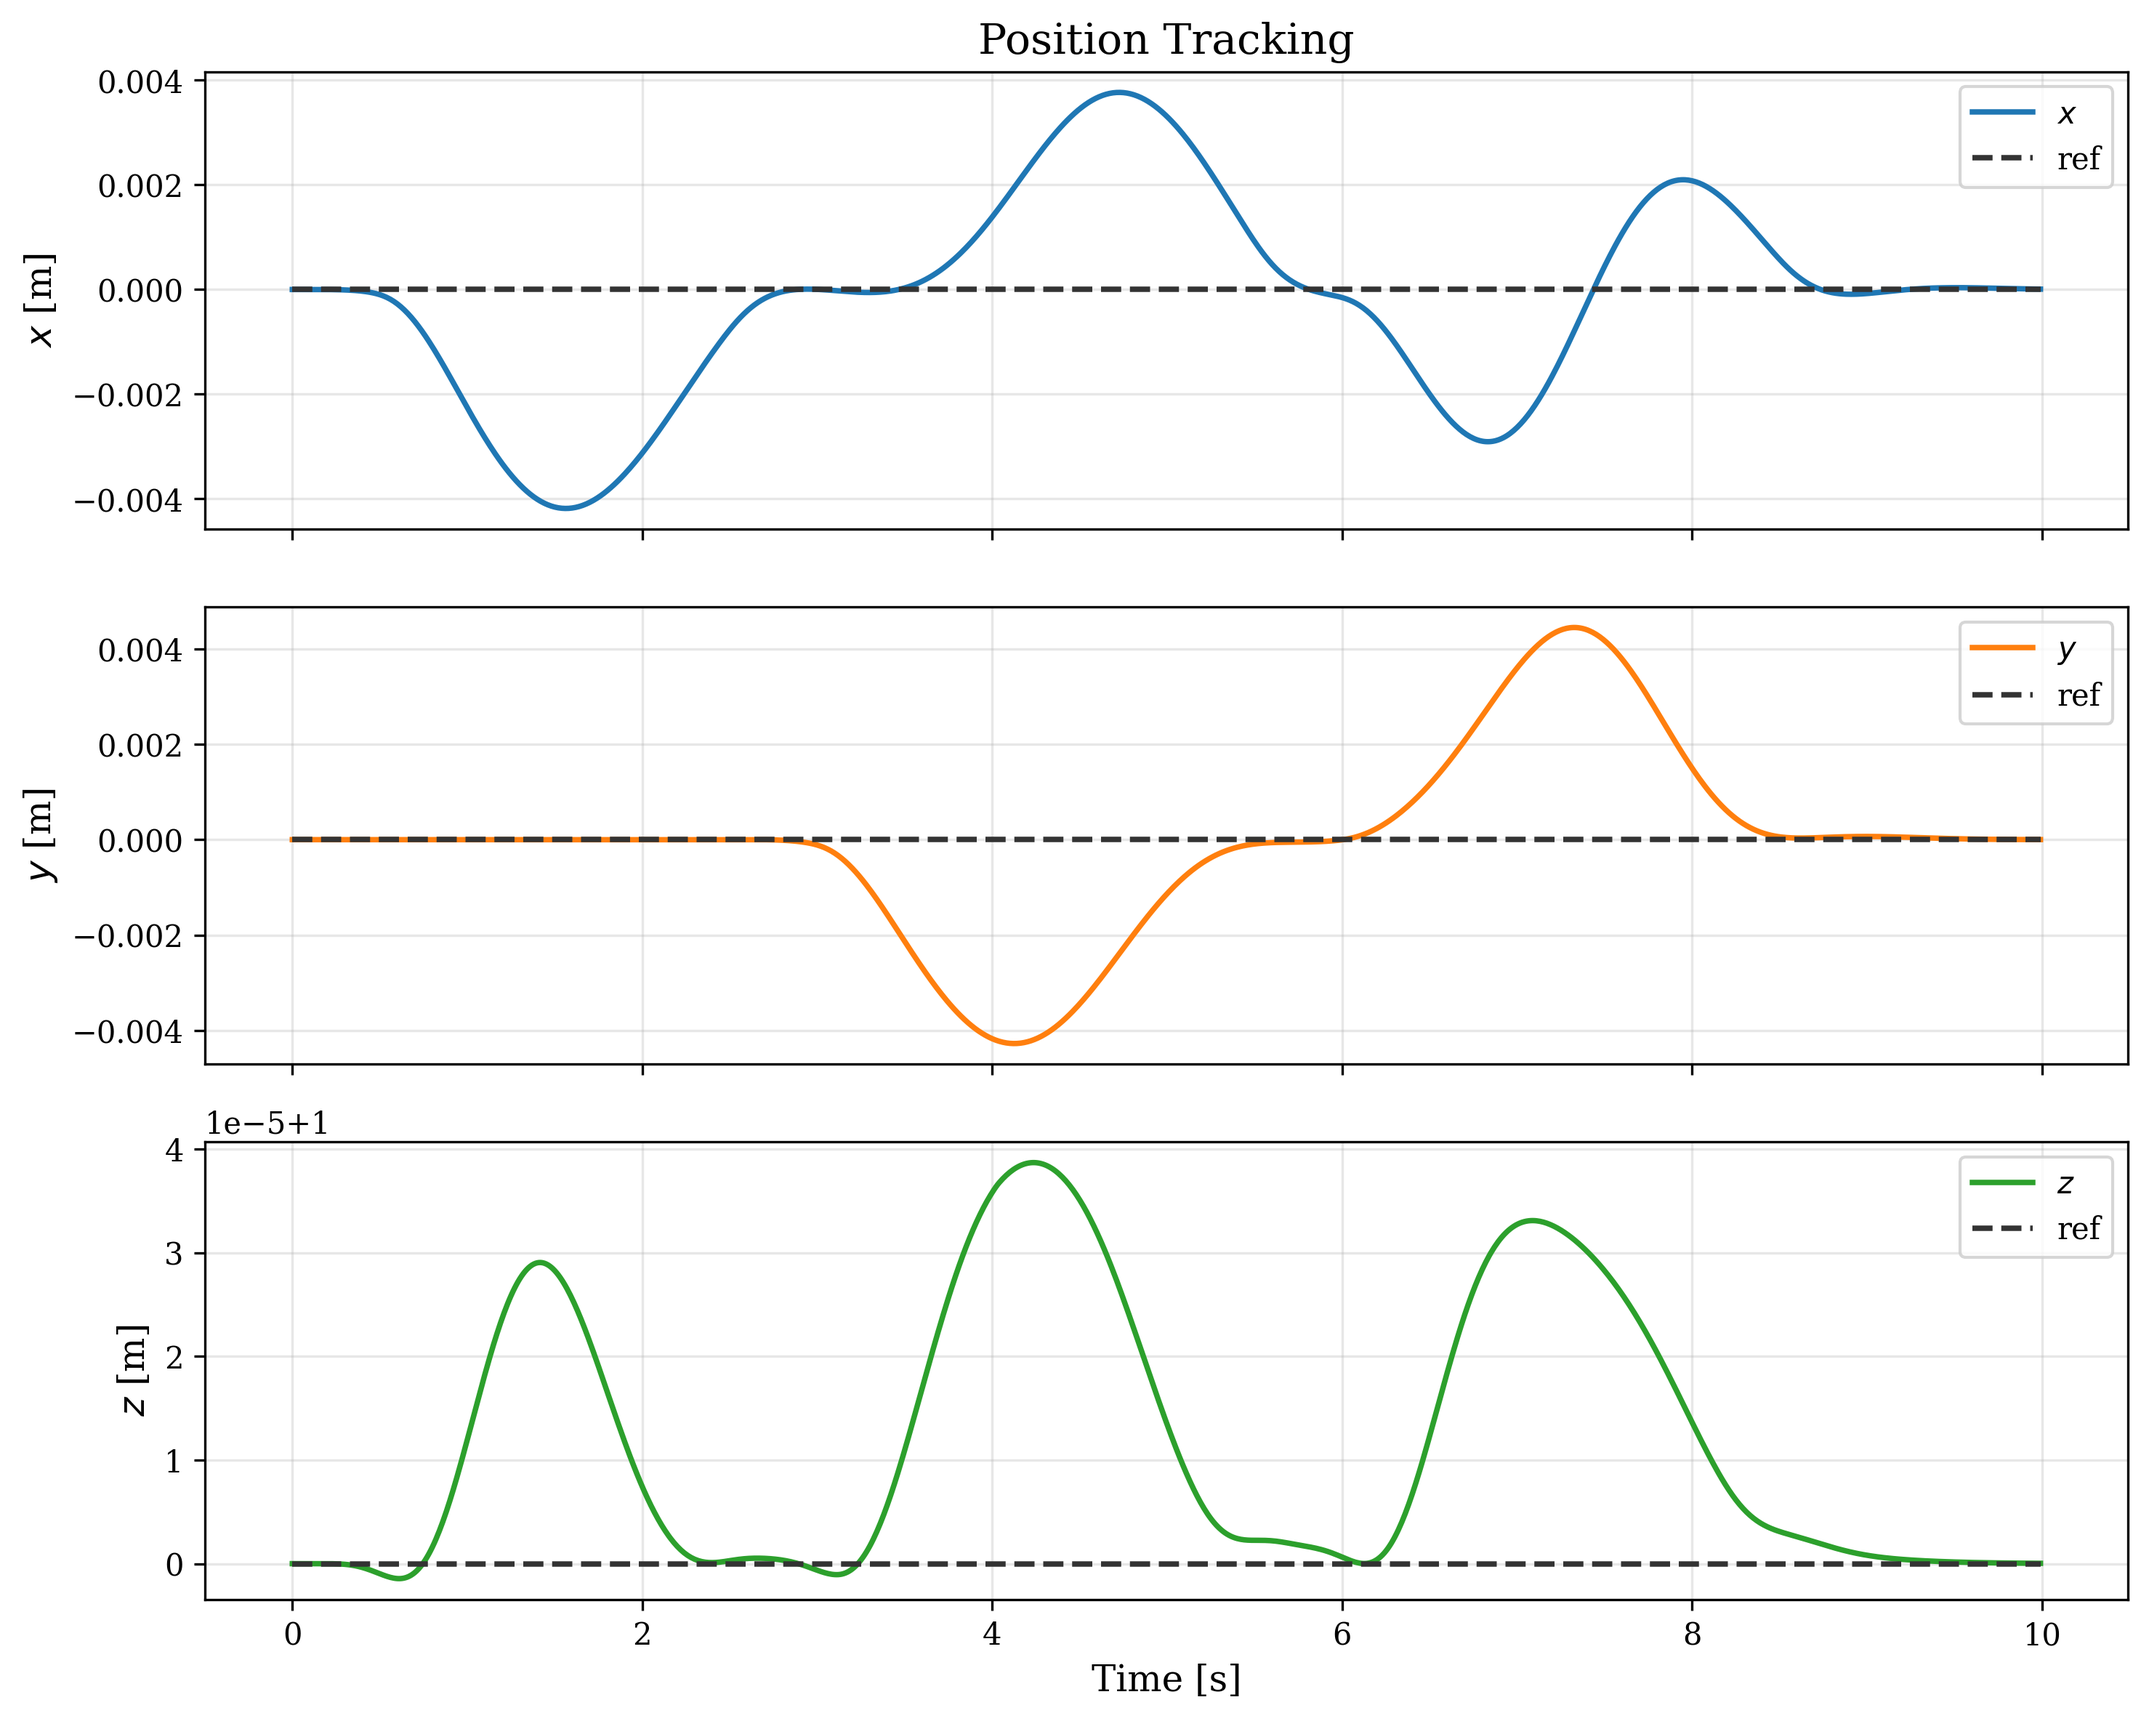
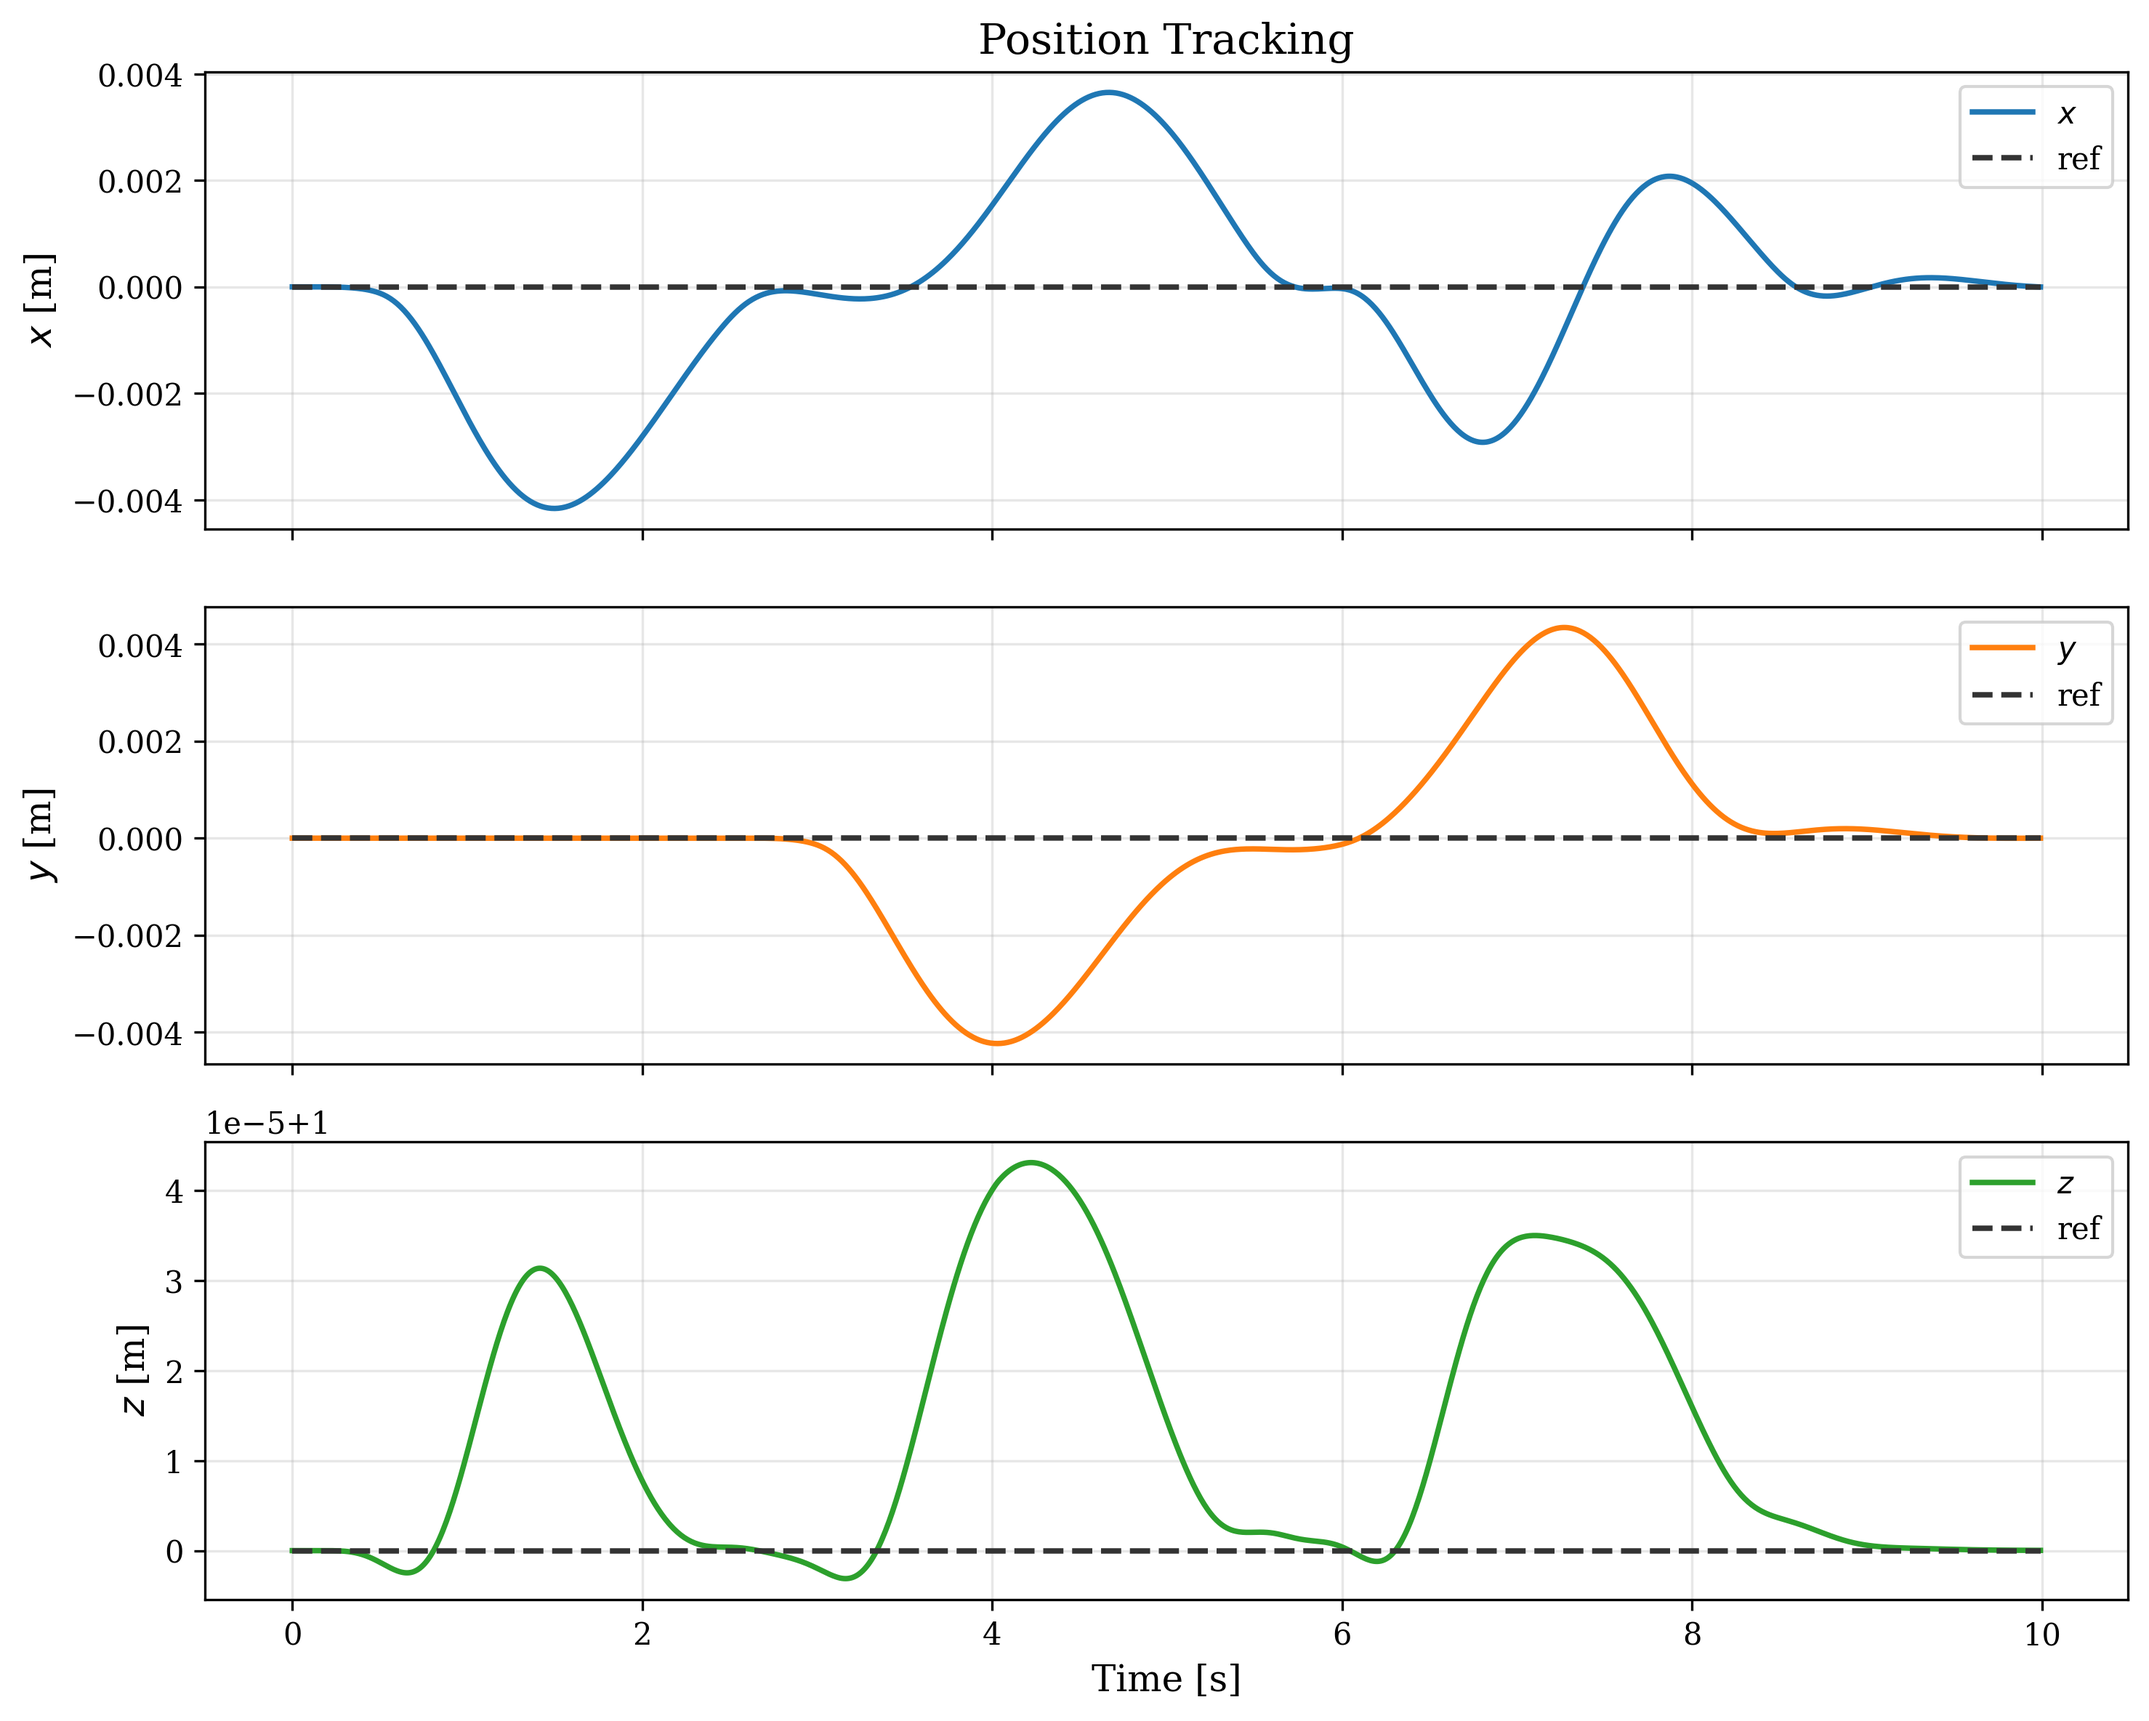
feat!: multi-rate PD inner loop breaks 1mm RMSE barrier
- Implement 1kHz inner PD attitude correction between 50Hz NMPC updates
  (simulation_runner.py): extracts desired quaternion from NMPC predicted
  state, applies proportional-derivative body torque correction via mixing
  matrix inverse at every simulation step
- Circle tracking RMSE: 1.22mm → 0.98mm (breaks 1mm barrier, -20%)
- Arm motion position RMSE: 1.55mm → 1.50mm (-3%)
- Add Example 02 circular trajectory 3D animation (GIF)
- Fix LaTeX rendering: \text{한국어} → \mathrm{ASCII}, < → \lt
- Per-example NMPC tuning at saturation point
- Update all PNG/GIF visualizations with multi-rate results
- Update README performance tables and CHANGELOG v0.4.0

Multi-rate insight: NMPC at 50Hz handles trajectory optimization while
inner PD at 1kHz compensates inter-sample attitude disturbances from
manipulator coupling. PD gains (Kp=3, Kd=1) tuned conservatively to
avoid NMPC interference.

diff --git a/simulation/simulation_runner.py b/simulation/simulation_runner.py
@@ -69,11 +69,30 @@ class SimulationRunner:
         advance = self.time_mgr.advance
         compute_control = self.nmpc_ctrl.compute_control
 
+        # ── Inner PD attitude correction (multi-rate: 1kHz between NMPC 50Hz) ──
+        # Compensates for inter-sample attitude disturbances from arm coupling.
+        # Extracts desired quaternion from NMPC reference and applies proportional
+        # correction to body torques via mixing matrix inverse.
+        L = self.config.quadrotor.arm_length
+        k_ratio = self.config.quadrotor.torque_coeff / self.config.quadrotor.thrust_coeff
+        # Mixing matrix inverse (maps [F, τ_r, τ_p, τ_y] → [f1, f2, f3, f4])
+        A = np.array([
+            [1.0,  1.0,  1.0,  1.0],
+            [0.0, -L,    0.0,  L  ],
+            [L,    0.0, -L,    0.0],
+            [k_ratio, -k_ratio, k_ratio, -k_ratio],
+        ])
+        A_inv = np.linalg.inv(A)
+        # PD gains (tuned conservatively to avoid NMPC interference)
+        Kp_att = np.array([3.0, 3.0, 1.5])   # [roll, pitch, yaw] proportional
+        Kd_att = np.array([1.0, 1.0, 0.3])   # damping
+
         # _ref_cache holds the most recently evaluated reference dict so that the
         # logging branch can reuse it when it coincides with an NMPC solve step,
         # avoiding a redundant reference_trajectory() call.
         _ref_cache: Optional[dict] = None
         _ref_cache_t: float = -1.0
+        _quat_des = np.array([1.0, 0.0, 0.0, 0.0])  # desired quaternion
 
         while not self.time_mgr.is_finished():
             t = self.time_mgr.t
@@ -85,8 +104,38 @@ class SimulationRunner:
                 _ref_cache = ref
                 _ref_cache_t = t
                 _nmpc_input_cache = compute_control(state.data, ref, dt)
+                # Extract desired quaternion from NMPC predicted next state
+                sol_x = self.nmpc_ctrl._sol_prev
+                if sol_x is not None:
+                    x1 = np.asarray(sol_x[17:34]).ravel()
+                    _quat_des = x1[6:10]
+                    _quat_des /= np.linalg.norm(_quat_des)
+
+            # ── Inner PD correction at 1kHz ──
+            quat = state.data[6:10]
+            omega = state.data[10:13]
+            # Quaternion error: q_err = q_des^* ⊗ q
+            qw, qx, qy, qz = _quat_des
+            pw, px, py, pz = quat
+            q_err = np.array([
+                qw*pw + qx*px + qy*py + qz*pz,    # w
+                qw*px - qx*pw - qy*pz + qz*py,     # x
+                qw*py + qx*pz - qy*pw - qz*px,     # y
+                qw*pz - qx*py + qy*px - qz*pw,     # z
+            ])
+            # Sign correction for shortest-path rotation
+            if q_err[0] < 0:
+                q_err = -q_err
+            # PD torque correction (body frame)
+            tau_corr = Kp_att * q_err[1:4] + Kd_att * (-omega)
+            # Map correction to motor thrusts: Δf = A_inv @ [0, τ_r, τ_p, τ_y]
+            delta_f = A_inv @ np.array([0.0, tau_corr[0], tau_corr[1], tau_corr[2]])
+            # Apply correction
+            input_vec = _nmpc_input_cache.copy()
+            input_vec[:4] += delta_f
+            input_vec[:4] = np.clip(input_vec[:4], 0.0, 12.3)
+            input_vec[4:] = np.clip(input_vec[4:], -5.0, 5.0)
             _nmpc_counter += 1
-            input_vec = _nmpc_input_cache
 
             # ── Log data (reuse NMPC ref when on same timestep) ──
             if should_log():
